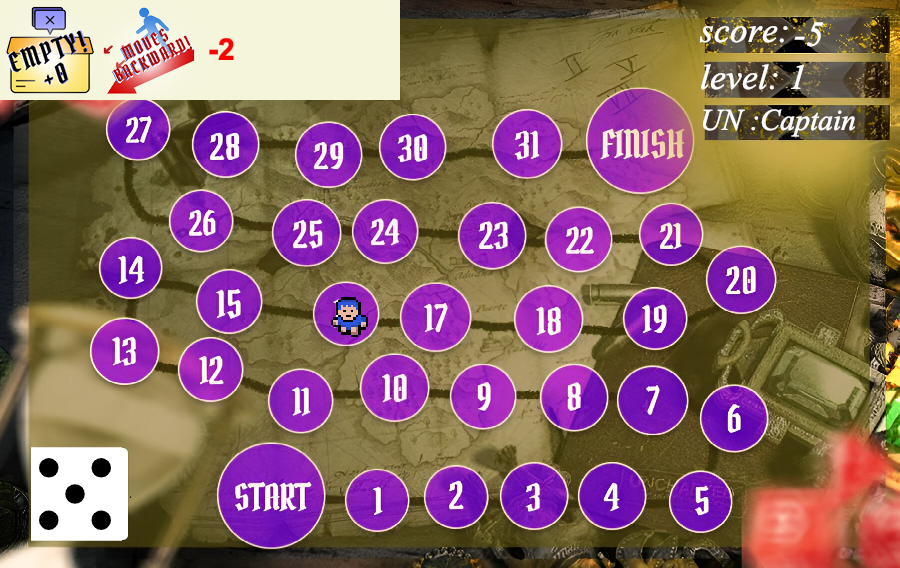
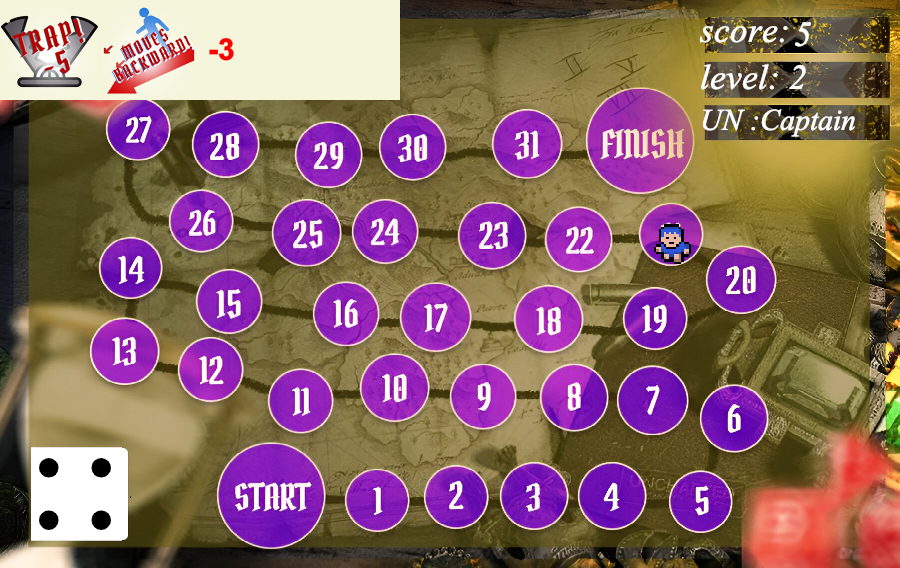
Fix Level 2 info panel showing "level: 1"
Retake the Level 2 screenshots and drop the known-issue note.

diff --git a/src/testgame/ZeineddinRadiGameBoard.java b/src/testgame/ZeineddinRadiGameBoard.java
@@ -67,7 +67,7 @@ public class ZeineddinRadiGameBoard extends JPanel {
         l1.setBounds(700, 11, 150, 40);
         this.add(l1);
         l1.setForeground(Color.WHITE);
-        JLabel l2 = new JLabel("level: 1 ");
+        JLabel l2 = new JLabel("level: 2 ");
         l2.setBounds(700, 53, 200, 50);
         l2.setOpaque(false);
         l2.setFont(f1);

diff --git a/README.md b/README.md
@@ -127,7 +127,6 @@ Scores are saved to `score.txt` in the directory you run the game from.
 ## Notes
 
 - **Portability fix.** The original code loaded every image and the score file from hard-coded Windows paths (`A:\java projects\testgame\...`), so it only ran on the developers' machine. Images now load as classpath resources (`getResource("/testgame/images/...")`) and scores are kept in `score.txt` in the working directory. No gameplay changes were made.
-- **Known issue.** The Level 2 screen still shows "level: 1" in its info panel, a leftover label in `ZeineddinRadiGameBoard`. Saved Level 2 scores are correctly recorded as "Level 2".
 
 ## Credits
 
